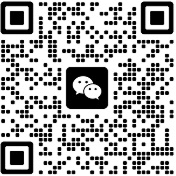
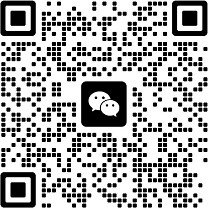
更新二维码

diff --git a/README.md b/README.md
@@ -88,7 +88,7 @@ $  bin/dhorse-stop.sh
 
 ## 社区交流
 
-感谢您的支持和关注，如想了解更多内容，欢迎加入微信群，备注：dhorse。
+感谢您的支持和关注，如想了解更多内容，欢迎加入如下群聊，如果二维码失效，也可加微信(tiandizhiguai)，备注：dhorse。
 
  ![Image text](./static/images/weixin.png)
 
